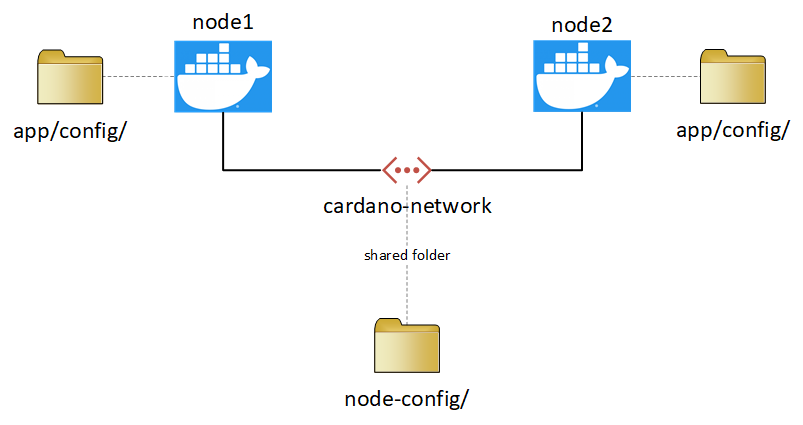
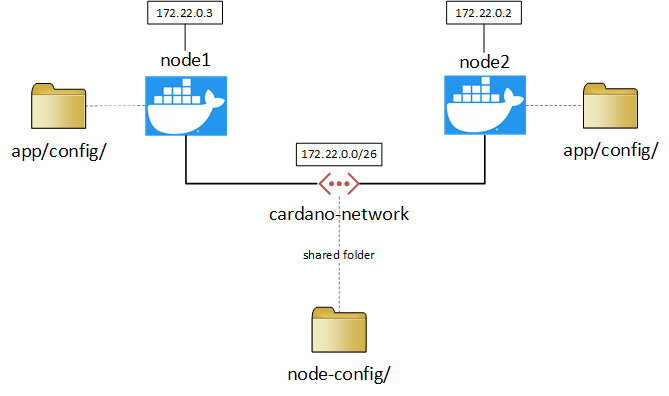
Assign static IP address.

diff --git a/README.md b/README.md
@@ -24,11 +24,12 @@ We make use of Docker to create the nodes for our private testnet:
 
 ![Docker containers](./images/docker_compose_up_result.png)
 
-6. Alright, here is the plan. We have started 2 containers and they are connected via the private network ```cardano-network```. Both containers will make use of the shared folder ```node-config/```
+6. Alright, here is the plan. We have started 2 containers and they are connected via the private network ```cardano-network```. ```node1``` has the IP address ```172.22.0.3```, and ```node2``` has the IP address ```172.22.0.2```. If you want to have a different IP range, then you need to change the settings in the file ```docker-compose.yml```.
+   Both containers will make use of the shared folder ```node-config/```
 
 ![Network setup](./images/network_setup.png)
 
-7. Open a new terminal and connect to ```node1``` with the next command:
+1. Open a new terminal and connect to ```node1``` with the next command:
 ```
 sudo docker exec -it node1 bash
 ```
@@ -216,7 +217,8 @@ utxo2.skey
 utxo2.vkey
 ```
 
-#### Configure the connection settings in topology.json
+#### [Optional step] Configure the connection settings in topology.json
+If you have changed the predefined IP addresses in the file  ```docker-compose.yml```, then proceed with the next steps. Otherwise continue with the next step [Run the nodes](#runnodes).
 Run the next command in the container ```node1```:
 ```
 $ cat /etc/hosts
@@ -259,7 +261,7 @@ Fill in the address of the first container ```node1``:
 
 Save the file ```topology.json``` (```Ctrl```+```X```, then ```Y```+```Enter```).
 
-#### Run the nodes
+#### <a name="runnodes"></a>Run the nodes
 Well done so far. We can now have some fun, by starting the nodes.
 
 Generate the genesis configuration and adding some funds:
